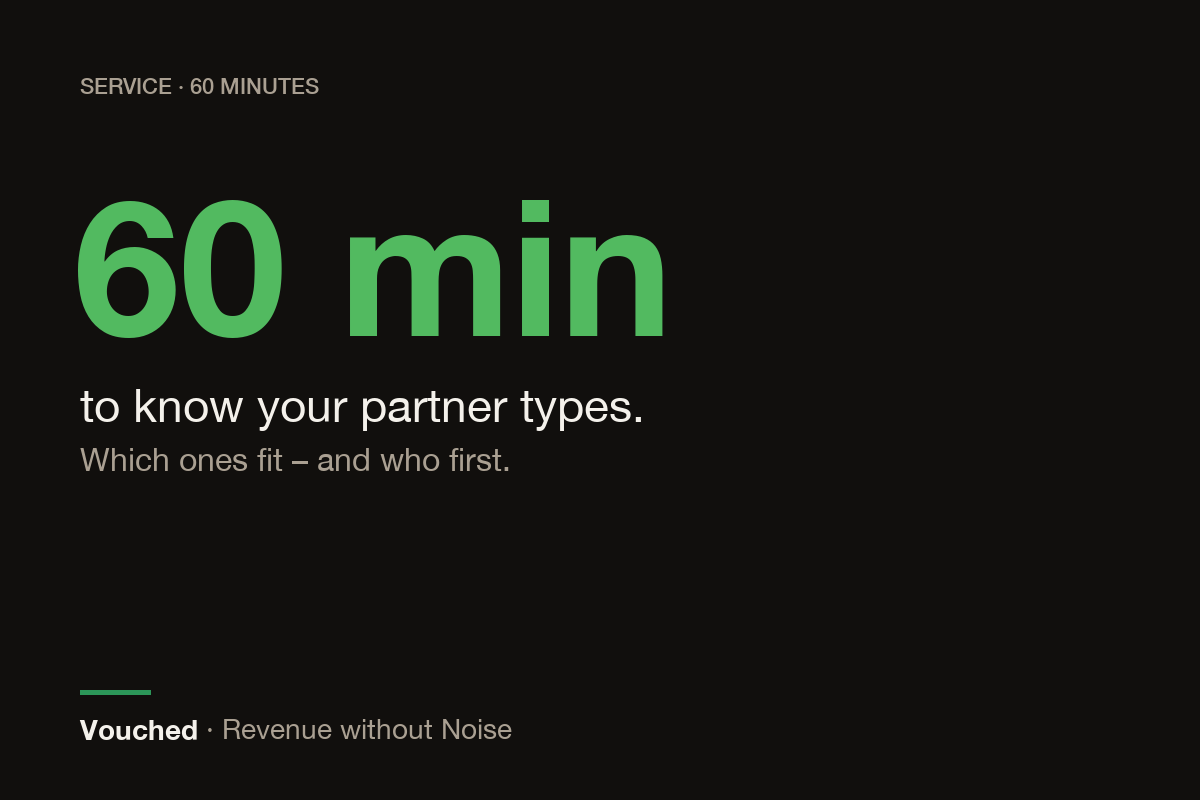
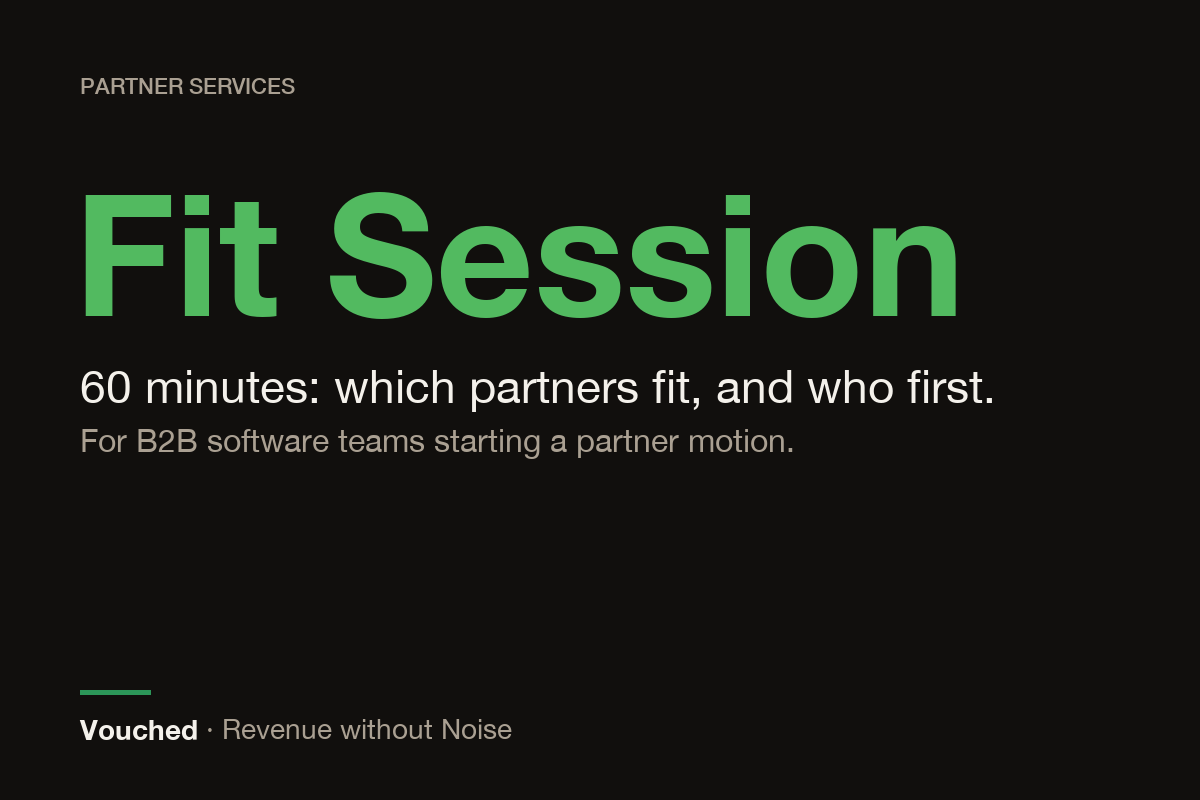
Make the offering clear: three groups, named formats, live decline
- The shop groups products by kind, in the order the intro names them:
  Vouched membership, one seat or one day, partner services. Group names
  come from the existing kind labels in the CMS.
- seed-offering.ts updates the live copy where it still has its seeded
  value: who the shop is for, the three ways in, and distinct event
  formats (Vouched AI Stammtisch, Vouched Roundtable).
- Product images show the offering's name and who it is for instead of
  large numbers.
- README opens with a screenshot of the live shop; the evidence file
  records the declined card on the live site (order 15 stayed pending).

diff --git a/src/app/(frontend)/shop/page.tsx b/src/app/(frontend)/shop/page.tsx
@@ -19,6 +19,9 @@ export const dynamic = 'force-dynamic'
 const kindLabel = (shop: Shop, kind: Product['kind']) =>
   kind === 'one-off' ? shop.kindLabels?.oneOff : shop.kindLabels?.[kind]
 
+// The three ways in, in the order the intro names them.
+const KIND_ORDER: Product['kind'][] = ['membership', 'one-off', 'service']
+
 export default async function ShopPage() {
   const payload = await getPayload({ config: configPromise })
   const [shop, products] = await Promise.all([
@@ -40,30 +43,38 @@ export default async function ShopPage() {
         <div className="container pt-20 pb-24">
           <PageIntro kicker={shop.kicker} heading={shop.heading} intro={shop.intro} />
 
-          <ul className="grid border-l border-t border-border sm:grid-cols-2 lg:grid-cols-3">
-            {products.docs.map((product, i) => (
-              <li key={product.id} className="flex flex-col border-r border-b border-border">
-                {product.photo && typeof product.photo === 'object' ? (
-                  <Media
-                    resource={product.photo}
-                    imgClassName="w-full aspect-[16/10] object-cover"
-                  />
-                ) : null}
-                <div className="flex flex-1 flex-col gap-4 p-7">
-                  <p className="text-xs font-medium uppercase tracking-[0.2em] text-muted-foreground">
-                    <span className="text-primary">{String(i + 1).padStart(2, '0')}</span>
-                    {kindLabel(shop, product.kind) ? ` · ${kindLabel(shop, product.kind)}` : ''}
-                  </p>
-                  <h2 className="text-2xl leading-tight">{product.name}</h2>
-                  <p className="flex-1 text-sm leading-relaxed text-muted-foreground">
-                    {product.description}
-                  </p>
-                  <ProductPrice product={product} labels={shop} />
-                  <BuyButton product={product} labels={shop} />
-                </div>
-              </li>
-            ))}
-          </ul>
+          {KIND_ORDER.map((kind, groupIndex) => {
+            const group = products.docs.filter((product) => product.kind === kind)
+            if (group.length === 0) return null
+            return (
+              <section key={kind} className="mt-16 first-of-type:mt-12">
+                <p className="mb-3 text-xs font-medium uppercase tracking-[0.2em] text-muted-foreground">
+                  <span className="text-primary">{String(groupIndex + 1).padStart(2, '0')}</span>
+                </p>
+                <h2 className="mb-6 text-3xl leading-tight">{kindLabel(shop, kind)}</h2>
+                <ul className="grid border-l border-t border-border sm:grid-cols-2 lg:grid-cols-3">
+                  {group.map((product) => (
+                    <li key={product.id} className="flex flex-col border-r border-b border-border">
+                      {product.photo && typeof product.photo === 'object' ? (
+                        <Media
+                          resource={product.photo}
+                          imgClassName="w-full aspect-[16/10] object-cover"
+                        />
+                      ) : null}
+                      <div className="flex flex-1 flex-col gap-4 p-7">
+                        <h3 className="text-2xl leading-tight">{product.name}</h3>
+                        <p className="flex-1 text-sm leading-relaxed text-muted-foreground">
+                          {product.description}
+                        </p>
+                        <ProductPrice product={product} labels={shop} />
+                        <BuyButton product={product} labels={shop} />
+                      </div>
+                    </li>
+                  ))}
+                </ul>
+              </section>
+            )
+          })}
 
           {custom?.heading && (
             <section className="mt-16 flex flex-col gap-6 border border-border p-8 md:flex-row md:items-center md:justify-between">

diff --git a/scripts/seed-offering.ts b/scripts/seed-offering.ts
@@ -1,0 +1,83 @@
+// Makes the offering clearer (decided 26 Nov 2026): the shop is grouped into
+// Vouched membership, one seat or one day, and partner services, and the event
+// formats get distinct names (Vouched AI Stammtisch, Vouched Roundtable).
+// Safe to run twice: a text is only replaced while it still has its earlier
+// seeded value, so anything edited in the admin panel is left alone.
+// Against the live database run it with NODE_ENV=production, so Payload does
+// not change the schema on start:
+//   NODE_ENV=production DATABASE_POOL_MAX=2 npx payload run scripts/seed-offering.ts
+import config from '@payload-config'
+import { getPayload } from 'payload'
+
+const payload = await getPayload({ config })
+const ctx = { disableRevalidate: true }
+
+const replaceIfSeeded = (current: unknown, old: (string | null | undefined)[], next: string) =>
+  old.includes(current as string) ? next : undefined
+const defined = <T extends object>(o: T) =>
+  Object.fromEntries(Object.entries(o).filter(([, v]) => v !== undefined)) as Partial<T>
+
+// 1. Shop: who it is for and the three ways in, said at the top
+const shop = await payload.findGlobal({ slug: 'shop', depth: 0 })
+const shopData = defined({
+  heading: replaceIfSeeded(
+    shop.heading,
+    ['Join Vouched, or *book a session*'],
+    'Join Vouched, *take a seat*, or book partner work',
+  ),
+  intro: replaceIfSeeded(
+    shop.intro,
+    ['Memberships are billed monthly and can be cancelled. Seats and sessions are paid once.'],
+    'For B2B software teams building their partner and go-to-market motion. Three ways in: a monthly membership for your team, one seat or one day, or partner work with a clear result.',
+  ),
+})
+const kinds = shop.kindLabels ?? {}
+const kindData = defined({
+  membership: replaceIfSeeded(kinds.membership, ['Membership', null, undefined], 'Vouched membership'),
+  oneOff: replaceIfSeeded(kinds.oneOff, ['One-off', null, undefined], 'One seat, one day'),
+  service: replaceIfSeeded(kinds.service, ['Service', null, undefined], 'Partner services'),
+})
+await payload.updateGlobal({
+  slug: 'shop',
+  data: { ...shopData, ...(Object.keys(kindData).length ? { kindLabels: { ...kinds, ...kindData } } : {}) },
+  context: ctx,
+})
+payload.logger.info(`shop: ${[...Object.keys(shopData), ...Object.keys(kindData)].join(', ') || 'kept'}`)
+
+// 2. Event formats: distinct names
+const page = await payload.findGlobal({ slug: 'events-page', depth: 0 })
+const labels = page.formatLabels
+const labelData = defined({
+  stammtisch: replaceIfSeeded(labels?.stammtisch, ['Stammtisch'], 'AI Stammtisch'),
+  table: replaceIfSeeded(labels?.table, ['Table'], 'Roundtable'),
+})
+if (Object.keys(labelData).length) {
+  await payload.updateGlobal({
+    slug: 'events-page',
+    data: { formatLabels: { ...labels, ...labelData } },
+    context: ctx,
+  })
+}
+payload.logger.info(`format labels: ${Object.keys(labelData).join(', ') || 'kept'}`)
+
+const titles: [string, string, string][] = [
+  ['vouched-stammtisch-munich', 'Vouched Stammtisch – Munich', 'Vouched AI Stammtisch – Munich'],
+  ['vouched-table-munich', 'Vouched Table – Munich', 'Vouched Roundtable – Munich'],
+]
+for (const [slug, old, next] of titles) {
+  const { docs } = await payload.find({
+    collection: 'events',
+    where: { slug: { equals: slug } },
+    limit: 1,
+    depth: 0,
+  })
+  const event = docs[0]
+  if (event && event.title === old) {
+    await payload.update({ collection: 'events', id: event.id, data: { title: next }, context: ctx })
+    payload.logger.info(`event ${slug}: renamed`)
+  } else {
+    payload.logger.info(`event ${slug}: kept`)
+  }
+}
+
+process.exit(0)

diff --git a/docs/evidence/README.md b/docs/evidence/README.md
@@ -1,4 +1,4 @@
-# Evidence: declined card and successful purchase (25 Nov 2026)
+# Evidence: declined card and successful purchase (25 and 26 Nov 2026)
 
 One checkout for *Roundtable seat* (39 €), local dev server against the
 shared database, Stripe sandbox, webhooks forwarded with `scripts/stripe-listen.sh`.
@@ -30,3 +30,27 @@ shared database, Stripe sandbox, webhooks forwarded with `scripts/stripe-listen.
 
 The same flow was run on the live Vercel site with the success card on
 25 Nov (order 10, paid via the live webhook).
+
+## Live site: declined card (26 Nov 2026)
+
+On https://revenue-without-noise.vercel.app, *Roundtable seat* (39 €), card
+`4000 0000 0000 0002`, tried twice. Stripe showed "Ihre Karte wurde
+abgelehnt" ("your card was declined") on its hosted page.
+
+What Stripe recorded (read through the API afterwards):
+
+```
+checkout session   status open, payment_status unpaid
+payment intent     requires_payment_method, last error card_declined (generic_decline)
+events             payment_intent.created, charge.failed, payment_intent.payment_failed (x2)
+                   no checkout.session.completed
+```
+
+What the app recorded:
+
+| id | product | status | amount | paid_at |
+|---|---|---|---|---|
+| 15 | Roundtable seat | pending | 3900 | – |
+
+So the live webhook never fired for this checkout and nothing was marked paid,
+next to the successful live purchase of 25 Nov (order 10, paid).

diff --git a/README.md b/README.md
@@ -6,6 +6,8 @@
 
 **Live:** https://revenue-without-noise.vercel.app · **Admin:** `/admin`
 
+![The live shop: Vouched memberships and bookable services, each with photo, price and buy button, under the test-mode banner](docs/images/shop.jpg)
+
 ## What the shop sells
 
 **Revenue without Noise** is a go-to-market practice in Munich ("More revenue.
@@ -176,6 +178,7 @@ while it is still pending.
    DATABASE_POOL_MAX=2 npx payload run scripts/seed-events.ts
    DATABASE_POOL_MAX=2 npx payload run scripts/seed-site.ts
    DATABASE_POOL_MAX=2 npx payload run scripts/seed-design.ts
+   DATABASE_POOL_MAX=2 npx payload run scripts/seed-offering.ts
    ```
    Product photos (`scripts/product-photos/`) are uploaded to the live site
    with `NODE_ENV=production DATABASE_POOL_MAX=2 npx payload run
